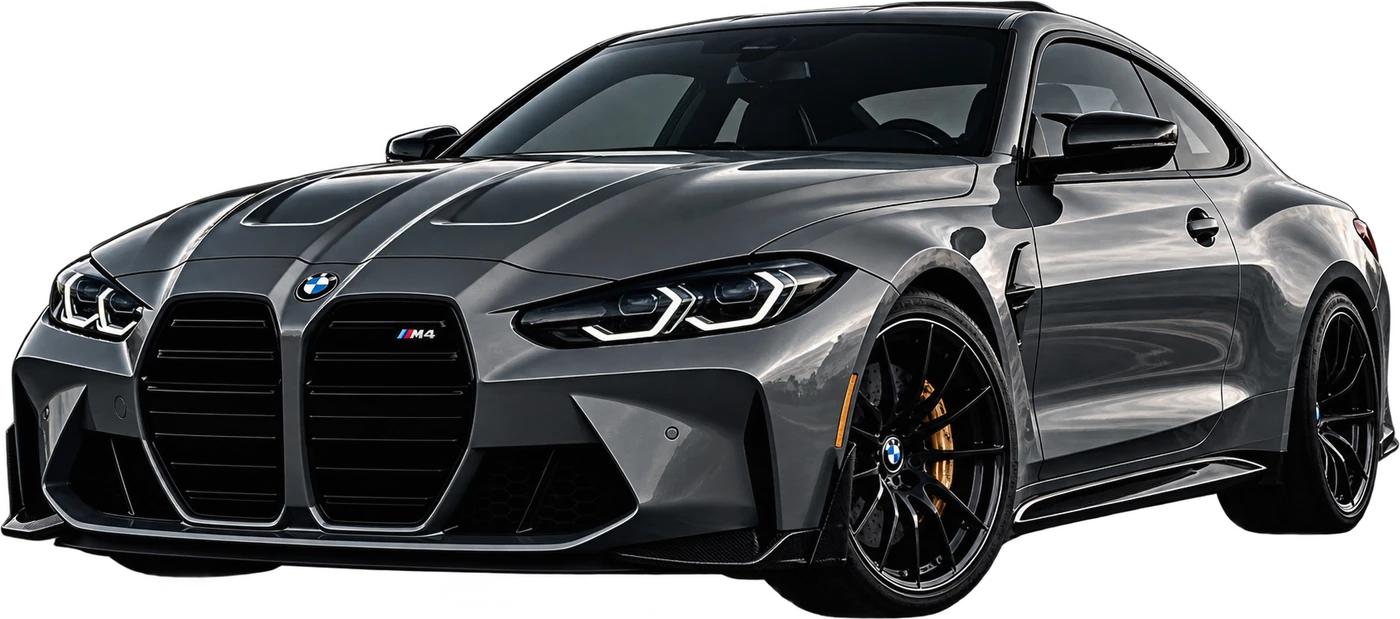
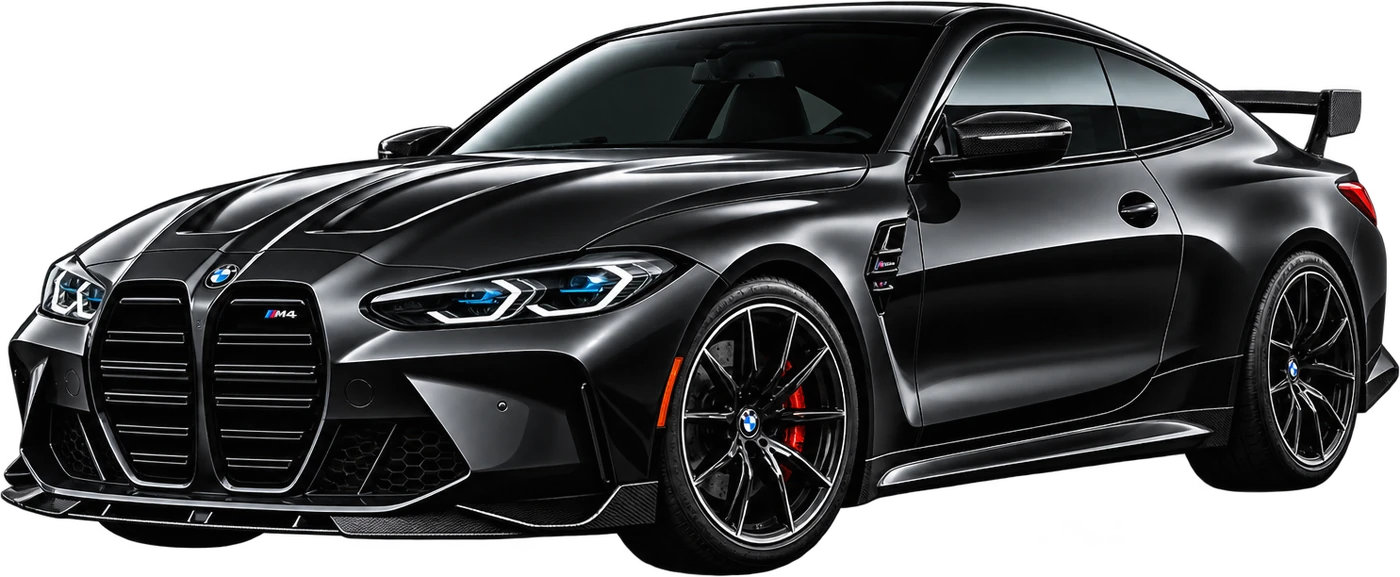
Hero: M4 preto e fundo mais escuro e translúcido
Claude-Session: https://claude.ai/code/session_01P6d9P8kCuZs3uj9avFHD25

diff --git a/public/css/styles.css b/public/css/styles.css
@@ -957,3 +957,8 @@ html.lock { overflow: hidden; }
   .hero-car { right: 0; left: 0; margin: auto; width: 96%; bottom: 6%; }
 }
 @media (prefers-reduced-motion: reduce) { .hero-car { animation: none; } }
+
+/* Mais escuro e translúcido para harmonizar */
+.hero-bg img { opacity: .36; filter: saturate(.5) brightness(.75) hue-rotate(185deg) saturate(1.4); }
+.hero-car { opacity: .94; filter: brightness(.9) drop-shadow(0 18px 22px rgba(0, 0, 0, .6)); }
+@keyframes car-slide { from { opacity: 0; transform: translateX(14%); filter: blur(8px) brightness(.9); } }

diff --git a/public/index.html b/public/index.html
@@ -88,7 +88,7 @@
     <div class="hero-bg" aria-hidden="true">
       <img src="img/hero-fundo.webp" alt="" width="1920" height="1080">
     </div>
-    <img class="hero-car" src="img/carros/bmw-m4-hero.webp" width="1400" height="619" alt="BMW M4 cinza" fetchpriority="high">
+    <img class="hero-car" src="img/carros/bmw-m4-hero.webp" width="1400" height="577" alt="BMW M4 preto" fetchpriority="high">
     <div class="wrap hero-grid">
       <div class="hero-copy">
         <p class="eyebrow">Seu próximo carro, sem enrolação</p>
